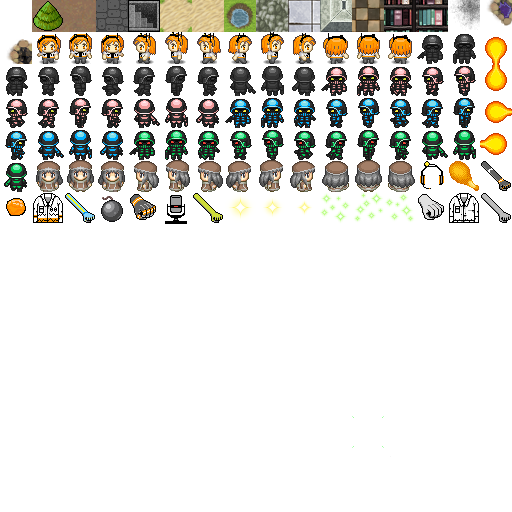
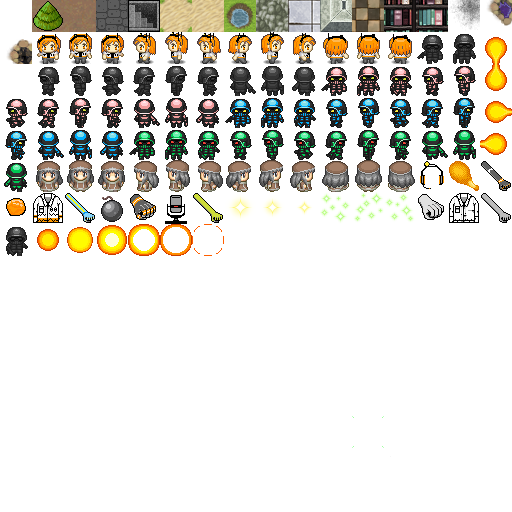
complete

Changed region(s): [[0.0, 0.4375, 0.375, 0.5], [0.0, 0.125, 0.0625, 0.1875]]

diff --git a/Adachirei_no_Daibouken/src/spawner/mod.rs b/Adachirei_no_Daibouken/src/spawner/mod.rs
@@ -18,10 +18,10 @@ pub fn spawn_player(ecs: &mut World, pos: Point) {
             pos,
             Render {
                 color: ColorPair::new(WHITE, BLACK),
-                left_frames: smallvec![64, 64, 64, 17, 17, 17],
-                right_frames: smallvec![64, 64, 64, 16, 16, 16],
-                up_frames: smallvec![64, 64, 64, 30, 30, 30],
-                down_frames: smallvec![64, 64, 64, 31, 31, 31],
+                left_frames: smallvec![20, 20, 21, 21, 22, 22, 21, 21],
+                right_frames: smallvec![23, 23, 24, 24, 25, 25, 24, 24],
+                up_frames: smallvec![26, 26, 27, 27, 28, 28, 27, 27],
+                down_frames: smallvec![17, 17, 18, 18, 19, 19, 18, 18],
                 current_frame: 0,
                 elasped_time_from_last_frame: 0.0,
             },
@@ -40,16 +40,16 @@ pub fn spawn_player(ecs: &mut World, pos: Point) {
     //can't push more than 9 components at once?
     let mut cb = CommandBuffer::new(&ecs);
     cb.add_component(entity, AttackFrames{
-        left: smallvec![48, 49, 50, 51, 52, 53],
-        right: smallvec![48, 49, 50, 51, 52, 53],
-        up: smallvec![1, 2, 3, 4, 5, 6],
-        down: smallvec![1, 2, 3, 4, 5, 6],
+        left: smallvec![20, 21, 22, 21, 20, 21],
+        right: smallvec![23, 24,25, 24, 23, 24],
+        up: smallvec![26, 27, 28, 27, 26, 27],
+        down: smallvec![17, 18, 19, 18, 17, 18],
     });
     cb.add_component(entity, DamageFrames{
-        left: smallvec![19, 19, 173, 173, 19, 19],
-        right: smallvec![19, 19, 173, 173, 19, 19],
-        up: smallvec![19, 19, 173, 173, 19, 19],
-        down: smallvec![19, 19, 173, 173, 19, 19],
+        left: smallvec![20, 21, 22, 21, 20, 21],
+        right: smallvec![23, 24,25, 24, 23, 24],
+        up: smallvec![26, 27, 28, 27, 26, 27],
+        down: smallvec![17, 18, 19, 18, 17, 18],
     });
     cb.add_component(entity, Damage(1));
     cb.add_component(entity, Defense(0));

diff --git a/Adachirei_no_Daibouken/src/systems/use_items.rs b/Adachirei_no_Daibouken/src/systems/use_items.rs
@@ -98,7 +98,7 @@ fn send_heal_effect(pos: &Point, commands: &mut CommandBuffer) {
         ((), EffectMotion {
             position: *pos,
             console: 4,
-            anime_frames: smallvec![208, 208, 209, 209, 210, 210],
+            anime_frames: smallvec![106, 106, 107, 107, 108, 108],
             current_frame: 0,
             elasped_time_from_last_frame: 0.0,
         })
@@ -110,7 +110,7 @@ fn send_light_effect(pos: &Point, commands: &mut CommandBuffer) {
         ((), EffectMotion {
             position: *pos,
             console: 4,
-            anime_frames: smallvec![4, 4, 76, 76, 4, 4],
+            anime_frames: smallvec![105, 104, 103, 105, 104, 103],
             current_frame: 0,
             elasped_time_from_last_frame: 0.0,
         })
@@ -135,10 +135,10 @@ fn send_shock_effects(pos: &Point, commands: &mut CommandBuffer) {
 
 fn send_rocket_punch_effect(pos: &Point, direction: &Direction, map: &Map, commands: &mut CommandBuffer) {
     let fist_glyph = match *direction {
-        Direction::Left => 27,
-        Direction::Right => 26,
-        Direction::Up => 24,
-        Direction::Down => 25,
+        Direction::Left => 63,
+        Direction::Right => 79,
+        Direction::Up => 31,
+        Direction::Down => 47,
     };
 
     let mut target_pos = *pos + direction.unit_vector();

diff --git a/Adachirei_no_Daibouken/src/map_builder/themes.rs b/Adachirei_no_Daibouken/src/map_builder/themes.rs
@@ -5,9 +5,9 @@ pub struct ResearchInstitueTheme {}
 impl MapTheme for ResearchInstitueTheme {
     fn tile_to_render(&self, tile_type: TileType) -> FontCharType {
         match tile_type {
-            TileType::Floor => to_cp437('.'),
-            TileType::Wall => to_cp437('#'),
-            TileType::Exit => to_cp437('>'),
+            TileType::Floor => 9,
+            TileType::Wall => 10,
+            TileType::Exit => 15,
         }
     }
 }
@@ -23,9 +23,9 @@ pub struct ForestTheme {}
 impl MapTheme for ForestTheme {
     fn tile_to_render(&self, tile_type: TileType) -> FontCharType {
         match tile_type {
-            TileType::Floor => to_cp437(';'),
-            TileType::Wall => to_cp437('"'),
-            TileType::Exit => to_cp437('>'),
+            TileType::Floor => 2,
+            TileType::Wall => 1,
+            TileType::Exit => 16,
         }
     }
 }
@@ -41,9 +41,9 @@ pub struct StockRoomTheme {}
 impl MapTheme for StockRoomTheme {
     fn tile_to_render(&self, tile_type: TileType) -> FontCharType {
         match tile_type {
-            TileType::Floor => 176,
-            TileType::Wall => 178,
-            TileType::Exit => to_cp437('>'),
+            TileType::Floor => 11,
+            TileType::Wall => 12,
+            TileType::Exit => 4,
         }
     }
 }

diff --git a/Adachirei_no_Daibouken/src/main.rs b/Adachirei_no_Daibouken/src/main.rs
@@ -302,23 +302,13 @@ impl GameState for State {
 fn main() -> BError {
     std::env::set_var("RUST_BACKTRACE", "1");
 
-    //starting sound
-    use std::fs::File;
-    use std::io::BufReader;
-    use rodio::{Decoder, OutputStream, Sink};
-    let (_stream, stream_handle) = OutputStream::try_default().unwrap();
-    let file = BufReader::new(File::open("resources/pc_calculation.wav").unwrap());
-    let source = Decoder::new(file).unwrap();
-    let sink = Sink::try_new(&stream_handle).unwrap();
-    sink.append(source);
-    sink.sleep_until_end();
-
     let context = BTermBuilder::new()
         .with_title("AdachiRei_no_Daibouken")
         .with_fps_cap(30.0)
         .with_dimensions(DISPLAY_WIDTH, DISPLAY_HEIGHT)
         .with_tile_dimensions(64, 64)
         .with_resource_path("resources/")
+        .with_font("adachi_materials.png", 32, 32)
         .with_font("adachi_materials.png", 32, 32)
         .with_font("terminal8x8.png", 8, 8)
         .with_simple_console(DISPLAY_WIDTH, DISPLAY_HEIGHT, "adachi_materials.png")
